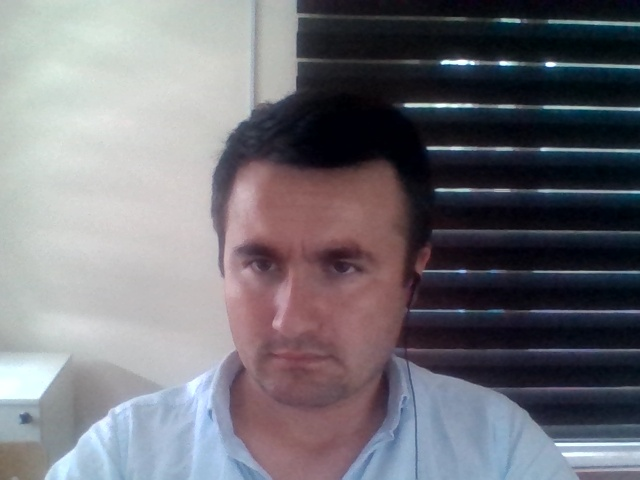
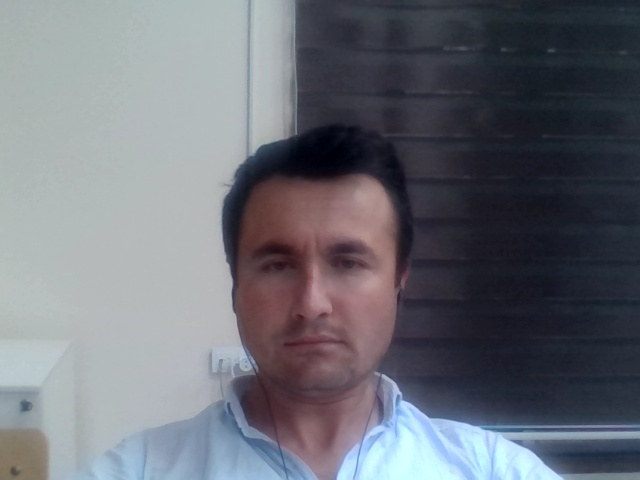
last fixed for phonr

diff --git a/index.html b/index.html
@@ -597,9 +597,9 @@
 
         try {
             // Slesh (/) belgilari va manzil aniqlashtirildi
-<!--            const response = await fetch('http://localhost:8000/verify', {-->
+            const response = await fetch('http://localhost:8000/verify', {
 
-            const response = await fetch('/verify', {
+<!--            const response = await fetch('/verify', {-->
                 method: 'POST',
                 body: fd
             });

diff --git a/main.py b/main.py
@@ -1,55 +1,240 @@
-from fastapi import FastAPI, UploadFile, File, Request
-from fastapi.responses import JSONResponse
+from fastapi import FastAPI, UploadFile, File
+from fastapi.middleware.cors import CORSMiddleware
 from deepface import DeepFace
-import os, shutil, glob
+import os
+import shutil
+import glob
+import cv2
+import numpy as np
 
 app = FastAPI()
 
[email redacted]("http")
-async def cors_middleware(request: Request, call_next):
-    if request.method == "OPTIONS":
-        return JSONResponse(status_code=200, headers={
-            "Access-Control-Allow-Origin": "*",
-            "Access-Control-Allow-Methods": "POST, GET, OPTIONS",
-            "Access-Control-Allow-Headers": "*",
-        })
-    response = await call_next(request)
-    response.headers["Access-Control-Allow-Origin"] = "*"
-    return response
+app.add_middleware(
+    CORSMiddleware,
+    allow_origins=["*"],
+    allow_methods=["*"],
+    allow_headers=["*"],
+)
 
 DB_PATH = "db"
 
+# ✅ Har xil qurilma uchun moslashtirilgan threshold
+# Telefon/past kamera uchun yuqori threshold kerak
+THRESHOLD = 0.82  # 0.68 (yaxshi kamera) → 0.82 (telefon/past kamera)
+
+
 def clear_cache():
-    for f in glob.glob(os.path.join(DB_PATH, "*.pkl")):
-        try: os.remove(f)
-        except: pass
+    """Kesh fayllarni tozalash"""
+    for pattern in ["*.pkl", "representations_*.pkl"]:
+        for f in glob.glob(os.path.join(DB_PATH, pattern)):
+            try:
+                os.remove(f)
+            except:
+                pass
+
+
+def preprocess_image(img_path: str) -> str:
+    """
+    Rasm sifatini yaxshilash:
+    - Yorqinlikni normallashtirish (CLAHE)
+    - Sharpness oshirish
+    - Hajmni standartlashtirish
+    Telefon/past kameradan kelgan rasmlar uchun muhim!
+    """
+    try:
+        img = cv2.imread(img_path)
+        if img is None:
+            return img_path
+
+        # 1. Hajmni optimallashtirish (juda katta yoki kichik bo'lsa)
+        h, w = img.shape[:2]
+        if max(h, w) > 1280:
+            scale = 1280 / max(h, w)
+            img = cv2.resize(img, (int(w * scale), int(h * scale)), interpolation=cv2.INTER_AREA)
+        elif max(h, w) < 160:
+            scale = 320 / max(h, w)
+            img = cv2.resize(img, (int(w * scale), int(h * scale)), interpolation=cv2.INTER_CUBIC)
+
+        # 2. CLAHE — yoritilish farqini kamaytirish (telefon uchun eng muhim)
+        lab = cv2.cvtColor(img, cv2.COLOR_BGR2LAB)
+        l, a, b = cv2.split(lab)
+        clahe = cv2.createCLAHE(clipLimit=2.5, tileGridSize=(8, 8))
+        l = clahe.apply(l)
+        lab = cv2.merge([l, a, b])
+        img = cv2.cvtColor(lab, cv2.COLOR_LAB2BGR)
+
+        # 3. Sharpness — bulaniq telefon rasmlar uchun
+        kernel = np.array([[0, -0.5, 0],
+                            [-0.5, 3, -0.5],
+                            [0, -0.5, 0]])
+        img = cv2.filter2D(img, -1, kernel)
+
+        # 4. Qayta saqlash (yuqori sifat)
+        processed_path = img_path.replace(".jpg", "_processed.jpg")
+        cv2.imwrite(processed_path, img, [cv2.IMWRITE_JPEG_QUALITY, 95])
+        return processed_path
+
+    except Exception as e:
+        print(f"[PREPROCESS] Xato: {e}")
+        return img_path  # Xato bo'lsa original rasmni ishlatish
+
+
+def find_best_match(results):
+    """Barcha natijalardan eng yaxshi moslikni topish"""
+    best_dist = float('inf')
+    best_match = None
+
+    for df in results:
+        if df is None or df.empty:
+            continue
+        for _, row in df.iterrows():
+            cols = row.index.tolist()
+            dist_col = next((c for c in cols if 'cosine' in c.lower() or 'distance' in c.lower()), None)
+            if dist_col:
+                dist = float(row[dist_col])
+                if dist < best_dist:
+                    best_dist = dist
+                    best_match = row
+                    best_match_dist_col = dist_col
+
+    return best_match, best_dist
+
 
 @app.post("/verify")
 async def verify_face(file: UploadFile = File(...)):
     temp_file = "temp_capture.jpg"
+    processed_file = None
+
+    try:
+        # Faylni saqlash
+        with open(temp_file, "wb") as buffer:
+            shutil.copyfileobj(file.file, buffer)
+
+        # Preprocessing — telefon/past kamera uchun
+        processed_file = preprocess_image(temp_file)
+        print(f"[DEBUG] Tahlil qilinayotgan rasm: {processed_file}")
+
+        # Keshni tozalash
+        clear_cache()
+
+        # DeepFace tahlili
+        results = DeepFace.find(
+            img_path=processed_file,
+            db_path=DB_PATH,
+            model_name='Facenet512',
+            distance_metric='cosine',
+            enforce_detection=False,
+            detector_backend='opencv',
+            silent=True
+        )
+
+        # Eng yaxshi moslikni topish
+        best_match, best_dist = find_best_match(results)
+
+        print(f"[DEBUG] Eng yaxshi masofa: {best_dist:.4f} (threshold: {THRESHOLD})")
+
+        if best_match is not None and best_dist < THRESHOLD:
+            full_path = best_match['identity']
+            name = os.path.basename(full_path).split('.')[0]
+            confidence = round((1 - best_dist / THRESHOLD) * 100, 1)
+
+            return {
+                "status": "success",
+                "user": name,
+                "confidence": f"{confidence}%",
+                "distance": round(best_dist, 4),
+                "threshold": THRESHOLD
+            }
+
+        # Muvaffaqiyatsiz — debug ma'lumotlari bilan
+        return {
+            "status": "error",
+            "message": "Yuz bazadagi rasmga mos kelmadi!",
+            "debug": {
+                "best_distance": round(best_dist, 4) if best_dist != float('inf') else None,
+                "threshold": THRESHOLD,
+                "tip": "distance threshold dan katta" if best_dist != float('inf') else "Hech qanday yuz topilmadi"
+            }
+        }
+
+    except Exception as e:
+        print(f"[ERROR] {e}")
+        return {
+            "status": "error",
+            "message": f"Tahlil xatosi: {str(e)}"
+        }
+
+    finally:
+        # Vaqtinchalik fayllarni o'chirish
+        for f in [temp_file, processed_file]:
+            if f and os.path.exists(f) and f != temp_file:
+                try:
+                    os.remove(f)
+                except:
+                    pass
+        if os.path.exists(temp_file):
+            try:
+                os.remove(temp_file)
+            except:
+                pass
+
+
[email redacted]("/debug/threshold")
+async def get_threshold():
+    """Joriy threshold ni ko'rish"""
+    return {"threshold": THRESHOLD, "model": "Facenet512", "metric": "cosine"}
+
+
[email redacted]("/debug/distance")
+async def check_distance(file: UploadFile = File(...)):
+    """
+    Faqat debug uchun — rasmning barcha masofalarini qaytaradi.
+    Threshold ni sozlash uchun ishlatish.
+    """
+    temp_file = "temp_debug.jpg"
     try:
         with open(temp_file, "wb") as buffer:
             shutil.copyfileobj(file.file, buffer)
+
+        processed = preprocess_image(temp_file)
         clear_cache()
+
         results = DeepFace.find(
-            img_path=temp_file, db_path=DB_PATH,
-            model_name="Facenet512", distance_metric="cosine",
-            enforce_detection=False, refresh_database=True,
-            detector_backend="opencv", silent=True
+            img_path=processed,
+            db_path=DB_PATH,
+            model_name='Facenet512',
+            distance_metric='cosine',
+            enforce_detection=False,
+            detector_backend='opencv',
+            silent=True
         )
-        if isinstance(results, list) and len(results) > 0 and not results[0].empty:
-            match = results[0].iloc[0]
-            cols = match.index.tolist()
-            dist_col = next((c for c in cols if "cosine" in c.lower() or "distance" in c.lower()), None)
-            if dist_col:
-                dist = float(match[dist_col])
-                print(f"[DEBUG] Masofa: {dist}")
-                if dist < 0.82:
-                    name = os.path.basename(match["identity"]).split(".")[0]
-                    return JSONResponse({"status": "success", "user": name,
-                                        "confidence": f"{round((1-dist)*100,2)}%",
-                                        "distance": round(dist, 4)})
-        return JSONResponse({"status": "error", "message": "Yuz mos kelmadi!"})
+
+        all_distances = []
+        for df in results:
+            if df is not None and not df.empty:
+                for _, row in df.iterrows():
+                    cols = row.index.tolist()
+                    dist_col = next((c for c in cols if 'cosine' in c.lower() or 'distance' in c.lower()), None)
+                    if dist_col:
+                        all_distances.append({
+                            "name": os.path.basename(row['identity']).split('.')[0],
+                            "distance": round(float(row[dist_col]), 4)
+                        })
+
+        all_distances.sort(key=lambda x: x['distance'])
+
+        return {
+            "results": all_distances[:10],
+            "current_threshold": THRESHOLD,
+            "recommendation": f"Eng yaqin: {all_distances[0]['distance'] if all_distances else 'topilmadi'}"
+        }
+
     except Exception as e:
-        print(f"Xato: {e}")
-        return JSONResponse({"status": "error", "message": str(e)})
+        return {"error": str(e)}
+    finally:
+        for f in [temp_file, temp_file.replace(".jpg", "_processed.jpg")]:
+            if os.path.exists(f):
+                try:
+                    os.remove(f)
+                except:
+                    pass